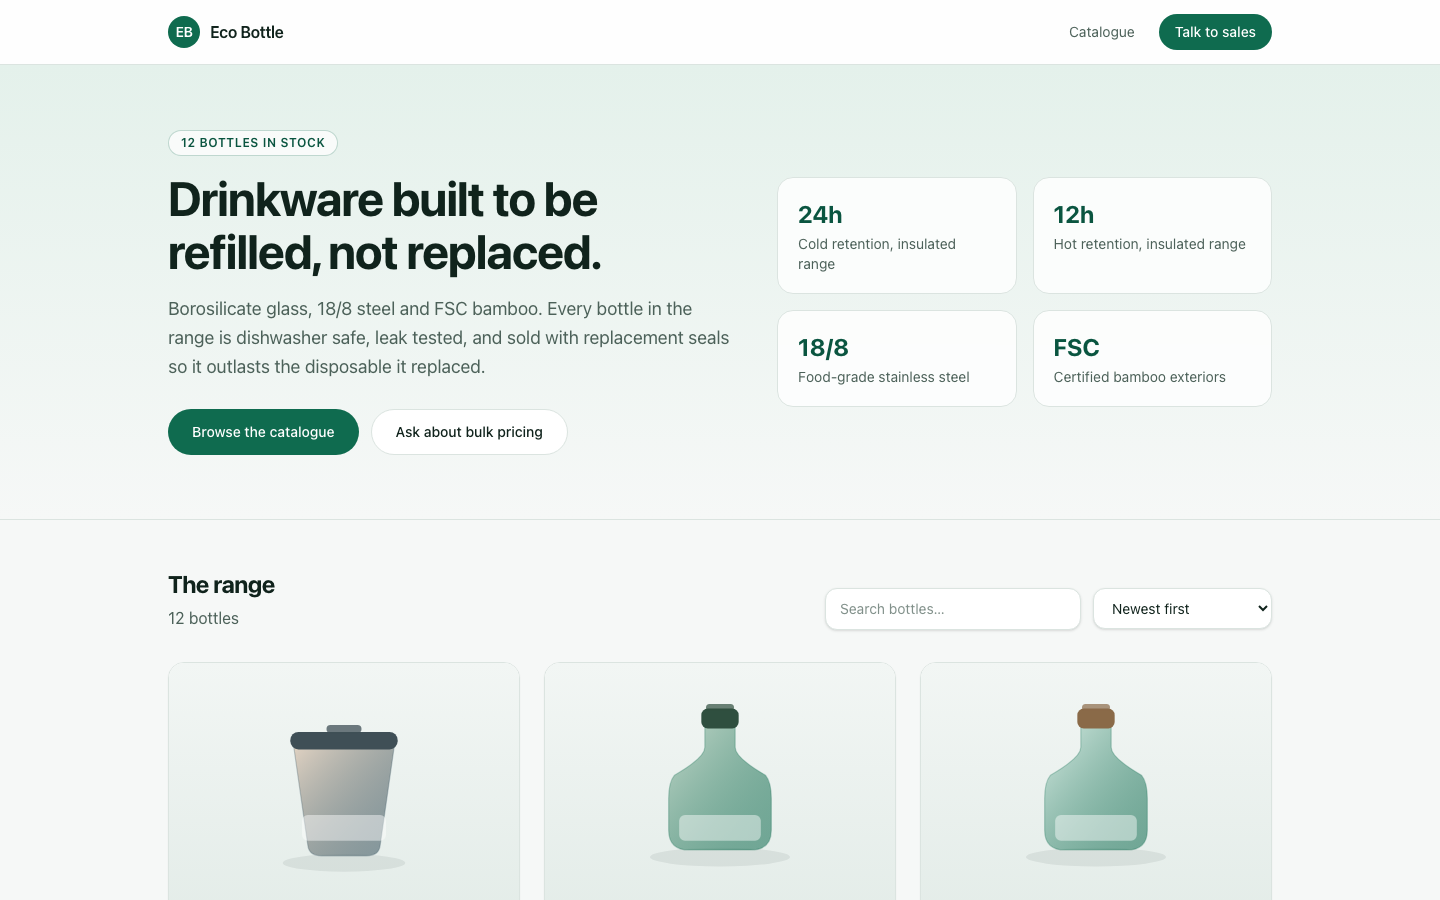
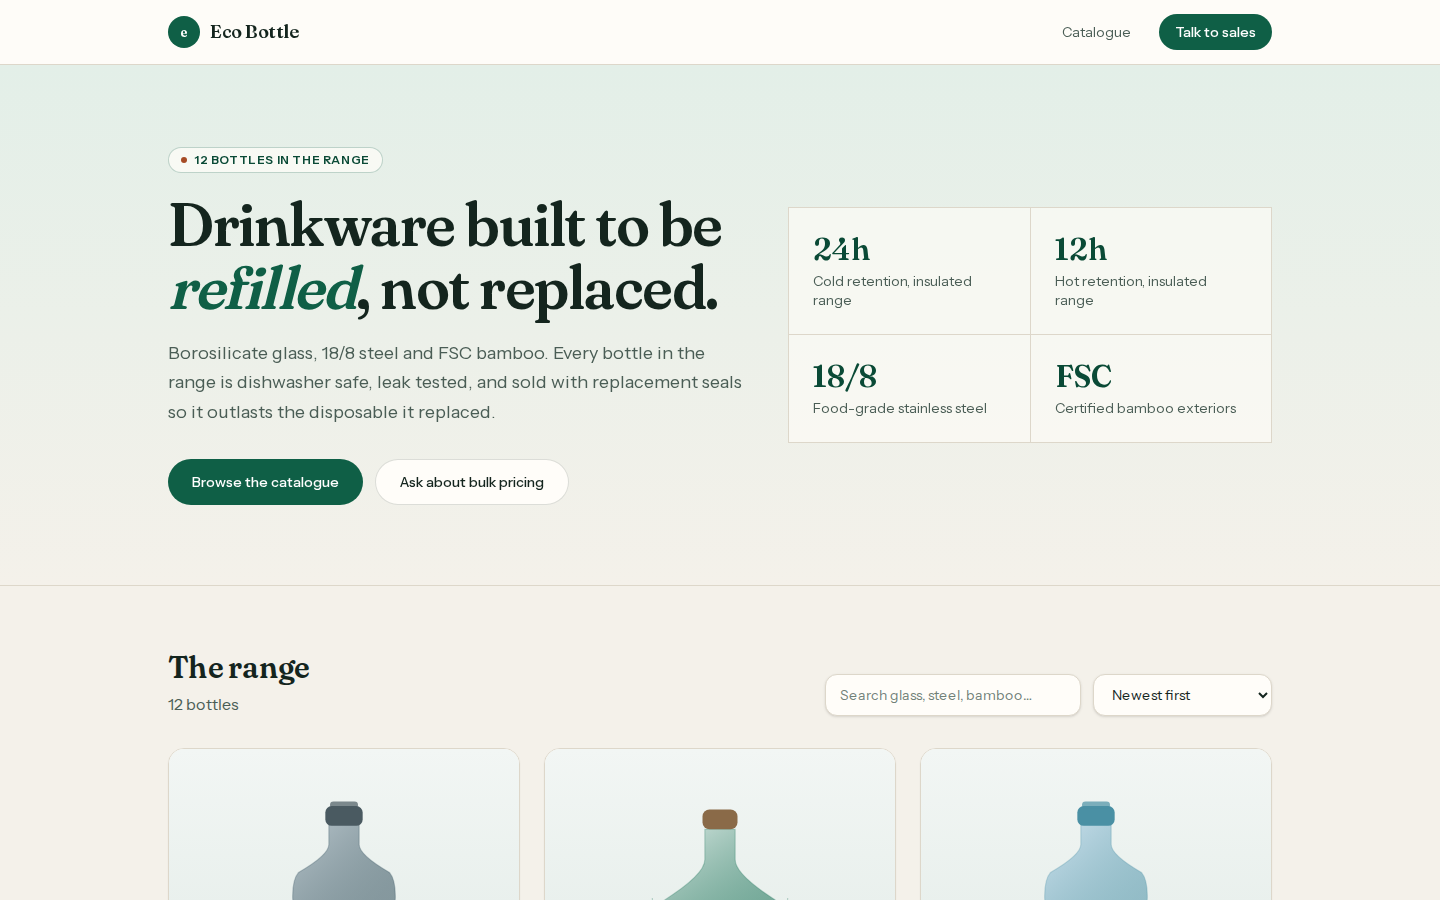
Rewrite the README around the one-command stack
Leads with make up now that it works, adds an architecture diagram, a
storefront section, request/response examples captured through Nginx,
and the current test counts. The badge row is gone. Screenshots are
retaken at 1440x900 and 390x844 against the seeded Compose stack.

diff --git a/README.md b/README.md
@@ -1,23 +1,36 @@
 # Eco Bottle
 
-A reusable-drinkware storefront: a Next.js landing page over an Express catalogue
-API, with Postgres, Redis, two API replicas behind Nginx, and a lead inbox that
-classifies enquiries as they arrive.
-[![Node >=20.10](https://img.shields.io/badge/Node-%3E%3D20.10-brightgreen)](package.json)
-[![pnpm 9.12](https://img.shields.io/badge/pnpm-9.12.0-orange)](pnpm-workspace.yaml)
-[![TypeScript strict](https://img.shields.io/badge/TypeScript-strict-blue)](apps/backend/tsconfig.json)
-[![61 tests](https://img.shields.io/badge/tests-61%20passing-brightgreen)](apps/backend/src/test)
-[![CI](https://img.shields.io/badge/CI-GitHub%20Actions-lightgrey)](.github/workflows/ci.yml)
-[![License MIT](https://img.shields.io/badge/License-MIT-yellow)](LICENSE)
+A storefront and sales inbox for a reusable-drinkware brand. A Next.js landing
+page browses the catalogue and takes enquiries; an Express API behind Nginx
+serves the catalogue from Postgres through a Redis cache, and classifies every
+enquiry on arrival so a pallet quote does not wait behind a leaking lid.
 
-![The storefront at 1440x900: hero, search and sort controls, and the top of the product grid](docs/screenshots/storefront.png)
+It is deliberately small in scope (a catalogue and a lead funnel, no checkout)
+and deliberately complete in the parts it has: two API replicas sharing their
+rate limits and token deny list, ETags and a stampede-safe cache on the read
+path, migrations instead of `synchronize`, and a test suite that drives the real
+Express app.
 
----
+![The storefront at 1440x900: serif headline, the four product facts, and the top of the catalogue](docs/screenshots/storefront.png)
 
 ## Get it running
 
-Two processes and two datastores — the datastores from Compose, the apps from
-your shell:
+Everything runs in containers with one command. You need Docker with Compose v2.
+
+```bash
+make up          # same as: docker compose up --build
+```
+
+Then open <http://localhost:8080>. Compose starts Postgres and Redis, applies
+the migration, seeds 12 products and an admin account, starts two API replicas,
+the storefront and Nginx in front of them. `make down` stops it and deletes the
+volumes. The first build needs network access: besides the npm registry,
+`next/font` downloads the two typefaces once and serves them from the app.
+
+### Working on the code
+
+For hot reload, run the apps from your shell against the Compose datastores.
+This needs Node 22 (`.nvmrc`) and pnpm 9 via `corepack enable`.
 
 ```bash
 pnpm install
@@ -27,27 +40,72 @@ cp apps/backend/.env.example apps/backend/.env
 pnpm --filter backend migration:run
 pnpm --filter backend seed     # 12 products, one admin account
 
-pnpm --filter backend dev      # http://localhost:4000
+pnpm --filter backend dev      # http://localhost:4000, Swagger UI at /docs
 pnpm --filter frontend dev     # http://localhost:3000  (second terminal)
 ```
 
-`make help` lists every target. Redis is optional here — leave `REDIS_URL` unset
+`make help` lists every target. Redis is optional here: leave `REDIS_URL` unset
 and the cache, rate limiter and deny list fall back to in-process implementations
 with a warning at boot, which is only correct for
-[one replica](#where-redis-earns-its-keep). The whole stack in containers,
-Nginx included, is [one command](#the-container-stack).
+[one replica](#where-redis-earns-its-keep).
+
+## How it fits together
+
+```mermaid
+flowchart LR
+    B["Browser"] --> N["Nginx :8080"]
+    N -- "/" --> F["Next.js storefront<br/>SSR + SWR"]
+    N -- "/api, /docs" --> A1["API replica 1"]
+    N -- "/api, /docs" --> A2["API replica 2"]
+    F -- "SSR fetch via nginx" --> N
+    A1 & A2 --> PG[("Postgres 16<br/>product, user, lead")]
+    A1 & A2 --> R[("Redis 7<br/>cache, rate limits,<br/>JWT deny list")]
+    A1 & A2 -. "optional" .-> L["LLM triage endpoint"]
+    P["Prometheus<br/>(profile: observability)"] -. scrape .-> A1 & A2
+```
+
+The browser only ever talks to one origin, so there is no CORS preflight and no
+API host baked into the client. Server-side rendering reaches the API through the
+same Nginx from inside the network.
+
+## The storefront
+
+One page: a hero, the catalogue and the enquiry form.
+
+- **Catalogue.** Search is debounced (one request per pause, not per keystroke),
+  sort covers newest, price both ways and name, and a pager walks the whole
+  catalogue twelve at a time. The first page is rendered on the server and handed
+  to SWR as its starting data.
+- **States.** Skeleton cards while loading, an explained empty state with a
+  "Clear filters" action, and an error panel with a retry. If the server cannot
+  reach the API while rendering, the page still renders and the grid loads from
+  the browser rather than claiming the catalogue is empty.
+- **Enquiry form.** Its Zod schema mirrors the API's limits (a test holds them
+  together), and the receipt shows the triage verdict the API returned.
+- **Type and colour.** Fraunces for headings and Instrument Sans for text, on a
+  warm paper background with forest green for actions and fired clay for prices.
+  Self-hosted by `next/font`, so the browser makes no third-party requests.
+- **Access.** A skip link, labelled landmarks, the grid as a list of articles,
+  visible focus outlines, and motion that respects `prefers-reduced-motion`.
+
+![The catalogue at 1440x900: three columns of product cards with clay price tags](docs/screenshots/catalogue.png)
+
+| Phone, 390x844                                                        | Same width, catalogue                                                                             |
+| --------------------------------------------------------------------- | ------------------------------------------------------------------------------------------------- |
+| ![The hero and product facts on a phone](docs/screenshots/mobile.png) | ![Search and sort stacked above a full-width product card](docs/screenshots/mobile-catalogue.png) |
 
 ## What the API exposes
 
 Public reads, admin-only writes. The seed creates `admin@example.com` /
 `Passw0rd!`, both overridable via `SEED_ADMIN_EMAIL` / `SEED_ADMIN_PASSWORD`.
+Change them before seeding anything reachable.
 
 | Method   | Path                          | Who    | Notes                                                                              |
 | -------- | ----------------------------- | ------ | ---------------------------------------------------------------------------------- |
 | `GET`    | `/api/products`               | anyone | `page` `limit` `q` `minPriceCents` `maxPriceCents` `sort`. ETag + `Server-Timing`. |
-| `GET`    | `/api/products/:slug`         | anyone | 404 for an unknown slug, misses cached too                                         |
-| `POST`   | `/api/products`               | admin  |                                                                                    |
-| `PUT`    | `/api/products/:id`           | admin  | drops the cached entry for both the old and new slug                               |
+| `GET`    | `/api/products/:slug`         | anyone | 404 for an unknown slug, and the miss is cached too                                |
+| `POST`   | `/api/products`               | admin  | 409 if the slug is taken                                                           |
+| `PUT`    | `/api/products/:id`           | admin  | 409 on a rename onto a taken slug; drops the old and new slug from the cache       |
 | `DELETE` | `/api/products/:id`           | admin  |                                                                                    |
 | `POST`   | `/api/leads`                  | anyone | 5/minute per IP, idempotent on email, returns the triage verdict                   |
 | `GET`    | `/api/leads`                  | admin  | the inbox                                                                          |
@@ -60,8 +118,49 @@ Public reads, admin-only writes. The seed creates `admin@example.com` /
 
 `/health`, `/ready` and `/metrics` are exempt from the global rate limit. Leaving
 them in the counter means a fixed-interval scrape eventually rate-limits the
-application it is monitoring — and the healthcheck that starts failing is exactly
+application it is monitoring, and the healthcheck that starts failing is exactly
 what makes an orchestrator restart a container that was fine.
+
+Uniqueness is checked before a write and enforced by the database. When two
+requests race past the check, the error handler turns the Postgres unique
+violation into the same 409, not a 500.
+
+### What the responses look like
+
+Captured through Nginx on the Compose stack; ids and timings will differ.
+
+```console
+$ curl -s 'localhost:8080/api/products?limit=2&sort=price_asc'
+{"items":[{"id":"52fcefbd-43dc-4978-9c33-a0a7ee856c6f","slug":"kids-bottle-300ml",
+  "name":"Kids Bottle 300ml","priceCents":999,"imageUrl":"/products/kids-300.svg",
+  "shortDescription":"Light, drop-tested, and dishwasher safe.",
+  "createdAt":"2026-11-08T03:31:48.209Z","updatedAt":"2026-11-08T03:31:48.209Z"},
+  {"id":"90bf36bc-…","slug":"travel-mug-350ml","name":"Travel Mug 350ml","priceCents":1299,…}],
+ "total":12,"page":1,"limit":2,"pages":6}
+
+$ curl -s localhost:8080/api/leads -H 'content-type: application/json' -d '{
+    "name": "Jane Doe", "email": "jane@acme-supplies.example",
+    "message": "We need a quote for 500 units of the 1L steel bottle for a conference in March."}'
+{"id":"7802390a-dd61-4915-9165-db82c225199c","intent":"bulk_order","priority":"high"}   # 201
+# the same email again returns the same receipt with 200 and writes nothing
+
+$ curl -s 'localhost:8080/api/products?minPriceCents=2000&maxPriceCents=1000'
+{"error":"ValidationError","message":"Request failed validation","requestId":"0f30df64-…",
+ "details":{"formErrors":[],"fieldErrors":{"minPriceCents":["minPriceCents must not exceed maxPriceCents"]}}}
+
+$ curl -s localhost:8080/api/products -H "authorization: Bearer $TOKEN" \
+    -H 'content-type: application/json' -d '{"slug":"travel-mug-350ml", …}'
+{"error":"Conflict","message":"A product with slug \"travel-mug-350ml\" already exists","requestId":"55696288-…"}
+
+$ curl -s 'localhost:8080/api/leads?limit=1' -H "authorization: Bearer $TOKEN"
+{"items":[{"id":"7802390a-…","email":"jane@acme-supplies.example","name":"Jane Doe",
+  "message":"We need a quote for 500 units …","utmSource":null,"intent":"bulk_order",
+  "priority":"high","triageSource":"rules","createdAt":"2026-11-08T03:32:05.297Z"}],
+ "total":1,"page":1,"limit":1}
+```
+
+Every error has the same shape, and `requestId` matches the `x-request-id`
+response header, which Nginx and both replicas carry through.
 
 ## What it stores
 
@@ -195,12 +294,12 @@ classified on arrival and stored with an `intent` and a `priority`.
 Classification sits behind a `LeadTriageProvider` port with two adapters.
 **`RuleLeadTriage`** is the default: phrase patterns per intent, then a priority
 score that also weighs whether the sender's domain is a free mail provider —
-deterministic, offline, no key, eight tests. **`LlmLeadTriage`** is optional; set
+deterministic, offline, no key, eight tests of its own. **`LlmLeadTriage`** is optional; set
 `LEAD_TRIAGE_PROVIDER=llm` and `LEAD_TRIAGE_API_KEY` to route through an
 OpenAI-compatible chat endpoint. The model's reply is _validated against the label
 enum_ before it is trusted, and a timeout, a bad key, an unparseable body or an
-invented label all fall through to the rule engine — the stored row then reads
-`triageSource: "rules-fallback"`.
+invented label all fall through to the rule engine, and the stored row then reads
+`triageSource: "rules-fallback"`, so the inbox shows which leads a model never saw.
 
 **A lead is never lost because a model was unreachable**, and the repo runs end to
 end with no API key. Four triage tests exist purely to pin that fallback.
@@ -213,7 +312,7 @@ apps/backend/src
                 and LeadTriageProvider
   adapters/     cache/ (redis, memory)  db/ (typeorm)
                 memory/ (test doubles)  triage/ (rules, llm)
-  services/     catalogue, leads, auth, cache, rate limiting — the logic
+  services/     catalogue, leads, auth, cache, rate limiting: the logic
   routes/       validation and status codes only, one file per resource
   middleware/   auth, errors, rate limit, timeout, ETag, request id
   container.ts  picks the adapters and wires them together
@@ -222,15 +321,18 @@ apps/backend/src
 apps/frontend
   app/(site)/   the landing page and its chrome
   components/   Hero, Catalogue, EnquiryForm, ProductCard, ui/
-  lib/          api client, product types, the shared lead schema
+  lib/          api client, product types, the shared lead schema, and tests
+
+infra/docker    the three Dockerfiles, nginx.conf, prometheus.yml
+tests/load.yml  the Artillery scenario
 ```
 
 Routes reach the database only through a repository port, which is what lets the
-suite drive the real Express app against in-memory repositories — and holds both
+suite drive the real Express app against in-memory repositories, and holds both
 implementations to the same pagination and filter contract. Both halves are
-strict TypeScript (`strict`, plus `noUncheckedIndexedAccess` on the backend),
-linted by ESLint 9 flat config: one at the root, one in `apps/frontend` because
-`eslint-config-next` brings its own rules.
+strict TypeScript (`strict`, plus `noUncheckedIndexedAccess` on the backend) on
+Express 5 and Zod 4, linted by ESLint 9 flat config: one at the root, one in
+`apps/frontend` because `eslint-config-next` brings its own rules.
 
 ## Configuration
 
@@ -251,28 +353,39 @@ limit, a 15-minute access token.
 
 ```
 $ pnpm test
- Test Files  5 passed (5)
-      Tests  61 passed (61)
+apps/frontend test:  Test Files  2 passed (2)
+apps/frontend test:       Tests  12 passed (12)
+apps/backend test:   Test Files  5 passed (5)
+apps/backend test:        Tests  74 passed (74)
 ```
 
-Five files, all driving the real Express app through supertest against in-memory
-adapters, so the suite finishes in about five seconds with no containers. The
-regressions they pin: pagination never repeating or skipping a row; `?page=abc`
-rejected rather than becoming `OFFSET NaN`; the cache reporting MISS then HIT and
-filtered queries staying uncached; `If-None-Match` producing a 304; a non-admin
-getting 403 on a catalogue write; a renamed slug dropping its old cache entry;
-login answering identically for a wrong password and an unknown account; a token
-stopping at logout; lead capture staying idempotent and returning 429 with
-`Retry-After`; one loader running under eight concurrent misses; and the LLM
-adapter falling back to rules on every failure mode.
+The backend files drive the real Express app through supertest against in-memory
+adapters, so the suite needs no containers and finishes in about five seconds.
+The regressions they pin: pagination never repeating or skipping a row;
+`?page=abc` and an inverted price range rejected rather than reaching SQL; the
+cache reporting MISS then HIT, filtered queries staying uncached, and a 404
+being remembered rather than re-queried; `If-None-Match` producing a 304; a
+non-admin getting 403 on a catalogue write; a duplicate or renamed-onto slug
+getting 409; a renamed slug dropping its old cache entry; login answering
+identically for a wrong password and an unknown account; a token stopping at
+logout; lead capture staying idempotent and returning 429 with `Retry-After`;
+the triage source being stored; one loader running under eight concurrent
+misses; a stalled request timing out with 503; and the LLM adapter falling back
+to rules on every failure mode.
 
-`pnpm check` runs lint, typecheck and tests — the same three steps as CI.
+The frontend tests cover the pieces with logic in them: the catalogue URL builder
+that SSR and the browser must agree on, price formatting, image path resolution,
+the lead schema's agreement with the API's limits, and the fetch wrapper's rule
+of retrying a dropped connection but never a 4xx.
+
+`pnpm check` (or `make check`) runs lint, typecheck and both test suites.
 
 ## Load profile
 
 `tests/load.yml` is an Artillery scenario for the read path, weighted 7:3 between
 browsing and searching. `make load-test` runs it against a live API and writes
-`reports/run.html`.
+`reports/run.html`. Artillery is fetched on demand with `pnpm dlx` rather than
+installed: as a devDependency it pulled a Chromium download into every install.
 
 One local run against the backend directly — loopback, macOS, one API process,
 Postgres 16 and Redis 7 on the same machine. Not a claim about production
@@ -297,17 +410,18 @@ make down    # and delete the volumes
 ```
 
 Eight services: `postgres`, `redis`, a `migrate` job, a `seed` job, `backend-1`,
-`backend-2`, `frontend`, and `nginx` on `localhost:8080`. Prometheus sits behind a
-profile (`docker compose --profile observability up`) and scrapes both replicas
-directly — scraping through the proxy would report one replica's numbers as the
-whole service's.
+`backend-2`, `frontend`, and `nginx` on `localhost:8080` (`HTTP_PORT` moves it).
+Prometheus sits behind a profile (`docker compose --profile observability up`)
+and scrapes both replicas directly; scraping through the proxy would report one
+replica's numbers as the whole service's.
 
-Both application images are multi-stage and run as the `node` user under `tini`,
-so `SIGTERM` reaches the process and the graceful shutdown in `src/index.ts`
-actually runs. `pnpm-lock.yaml` is committed and both builds use
-`--frozen-lockfile` — a lockfile that only exists on one laptop makes every image
-build a different image. `migrate` runs to completion before either replica
-starts, so no boot races the schema and no boot can drop it.
+Both application images are multi-stage on Node 22 and run as the `node` user
+under `tini`, so `SIGTERM` reaches the process and the graceful shutdown in
+`src/index.ts` actually runs. `pnpm-lock.yaml` is committed and both builds use
+`--frozen-lockfile`. `migrate` runs to completion before either replica starts,
+so no boot races the schema. The Nginx image tests its own config at build time;
+because nginx resolves upstream hostnames while testing, Compose gives that build
+stand-in entries for the services that do not exist yet.
 
 ## What is deliberately not here
 
@@ -317,7 +431,9 @@ starts, so no boot races the schema and no boot can drop it.
   list. A refresh flow needs rotation and reuse detection to be worth having.
 - **No product detail page in the UI**, and **no alerting** on the metrics
   Prometheus collects.
+- **No admin UI.** Catalogue writes and the lead inbox are API-only, behind an
+  admin token; `/docs` is the console for them.
 
 ## License
 
-MIT — see [LICENSE](LICENSE).
+MIT, see [LICENSE](LICENSE).
